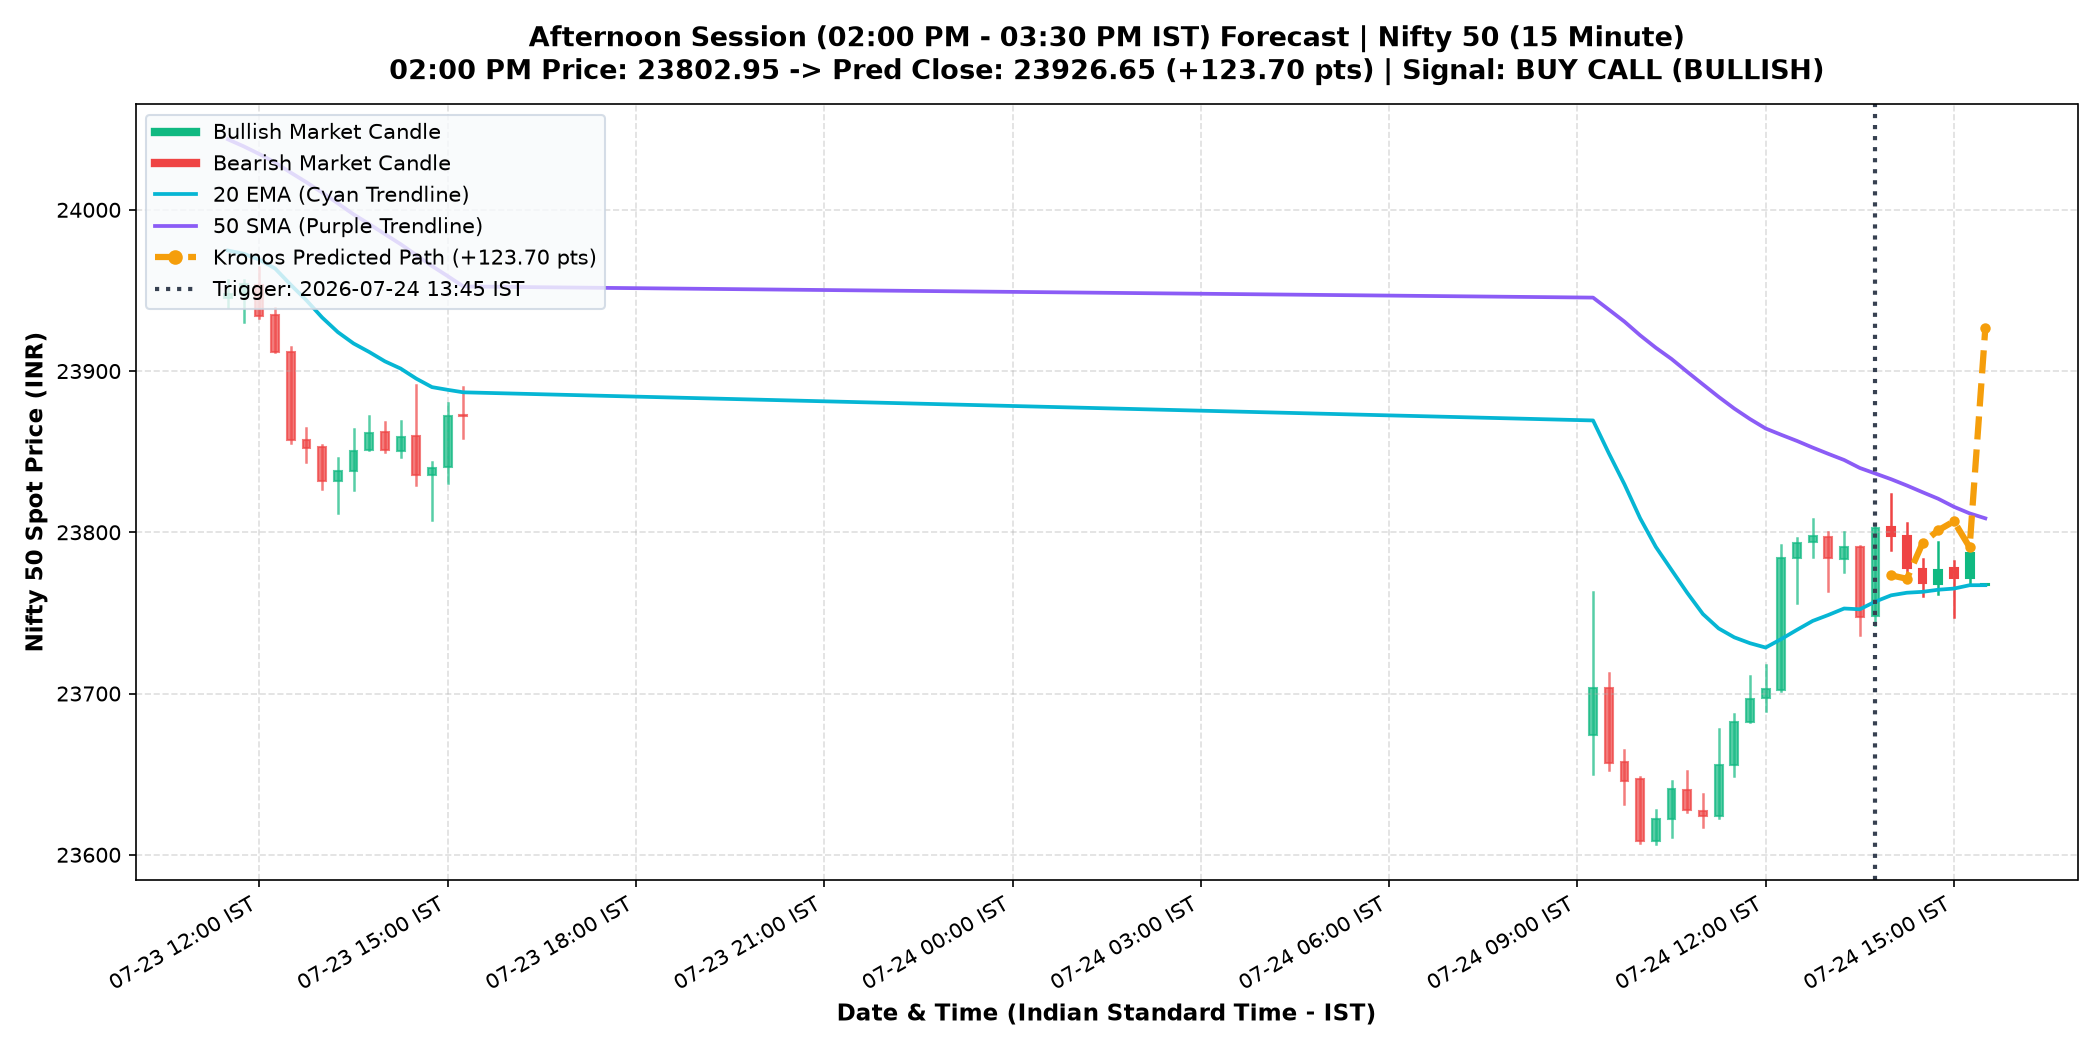
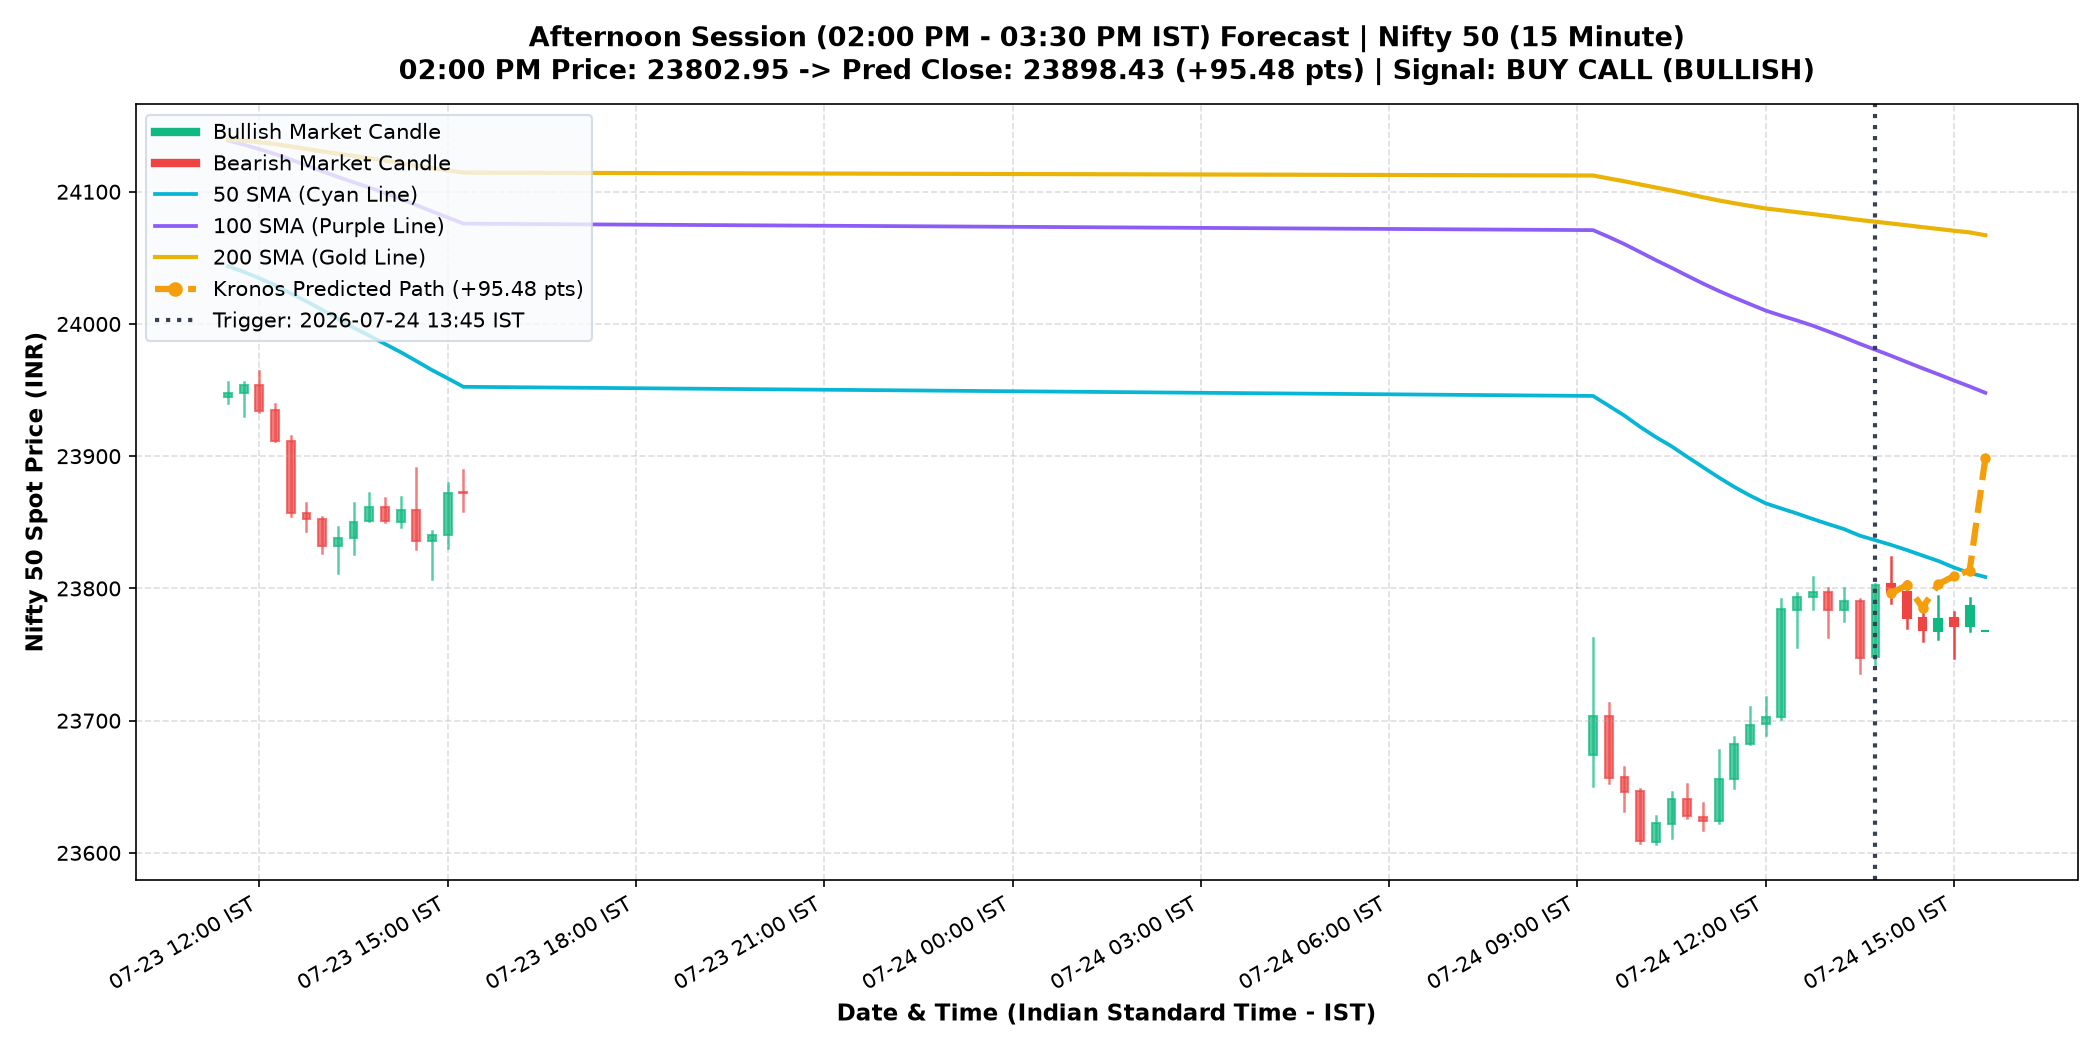
Initial commit: Kronos AI Nifty50 IST backtest engine, dual-mode evaluation, IST data, plots & streamlit dashboard

diff --git a/kronos_afternoon_session.py b/kronos_afternoon_session.py
@@ -20,7 +20,7 @@ plots_pm_dir = os.path.join(base_dir, "plots", "afternoon_session_2pm_close")
 os.makedirs(plots_pm_dir, exist_ok=True)
 
 print("=" * 80)
-print("RUNNING AFTERNOON SESSION FORECAST (02:00 PM IST TO 03:30 PM IST CLOSE)...")
+print("RUNNING AFTERNOON SESSION FORECAST WITH 50, 100 & 200 SMA INDICATORS...")
 print("Target Machine: CPU Execution Mode")
 print("=" * 80)
 
@@ -60,9 +60,10 @@ def run_afternoon_session_forecast(file_name, tf_label, lookback=400):
     df['timestamps'] = pd.to_datetime(df['timestamps'])
     df['time_only'] = df['timestamps'].dt.time
 
-    # Calculate Moving Averages
-    df['ema20'] = df['close'].ewm(span=20, adjust=False).mean()
+    # Calculate 50, 100, 200 Simple Moving Averages
     df['sma50'] = df['close'].rolling(window=50, min_periods=10).mean()
+    df['sma100'] = df['close'].rolling(window=100, min_periods=20).mean()
+    df['sma200'] = df['close'].rolling(window=200, min_periods=30).mean()
 
     # Find closest candle to 14:00:00 IST (02:00 PM IST)
     target_time = time(14, 0, 0)
@@ -78,7 +79,6 @@ def run_afternoon_session_forecast(file_name, tf_label, lookback=400):
     else:
         trigger_idx_in_day = pm_indices[0]
 
-    # Map back to main df index
     global_idx = df[(df['date_str'] == latest_date) & (df['timestamps'] == day_df.iloc[trigger_idx_in_day]['timestamps'])].index[0]
 
     if global_idx < lookback:
@@ -87,7 +87,6 @@ def run_afternoon_session_forecast(file_name, tf_label, lookback=400):
     x_df = df.iloc[global_idx - lookback : global_idx][['open', 'high', 'low', 'close', 'volume', 'amount']].copy()
     x_ts = df.iloc[global_idx - lookback : global_idx]['timestamps'].copy()
 
-    # Remaining candles in the day up to 15:30 IST
     remaining_day = day_df.iloc[trigger_idx_in_day:].copy()
     pred_len = len(remaining_day) if len(remaining_day) > 0 else 10
 
@@ -120,20 +119,20 @@ def run_afternoon_session_forecast(file_name, tf_label, lookback=400):
     print(f"Directional Win: {'WIN' if is_win else 'MISMATCH'} | Signal: {signal}")
     print("=" * 80)
 
-    # Render Professional OHLC Candlestick Plot with Moving Averages
+    # Render Professional OHLC Candlestick Plot with 50, 100, 200 SMA Overlays
     fig, ax = plt.subplots(figsize=(14, 7))
 
-    # Subset context candles
     ctx_subset = df.iloc[max(0, global_idx - 35) : global_idx].copy()
     draw_ohlc_candlesticks(ax, ctx_subset, width_ratio=0.5, alpha=0.7)
     draw_ohlc_candlesticks(ax, act_df, width_ratio=0.5, alpha=1.0)
 
-    # Plot Moving Averages
+    # Plot 50, 100, 200 SMA Moving Averages
     full_plot_subset = df.iloc[max(0, global_idx - 35) : global_idx + pred_len].copy()
-    ax.plot(full_plot_subset['timestamps'], full_plot_subset['ema20'], label='20 EMA (Cyan)', color='#06b6d4', linewidth=1.8, linestyle='-')
-    ax.plot(full_plot_subset['timestamps'], full_plot_subset['sma50'], label='50 SMA (Purple)', color='#8b5cf6', linewidth=1.8, linestyle='-')
+    ax.plot(full_plot_subset['timestamps'], full_plot_subset['sma50'], label='50 SMA (Cyan)', color='#06b6d4', linewidth=1.8, linestyle='-')
+    ax.plot(full_plot_subset['timestamps'], full_plot_subset['sma100'], label='100 SMA (Purple)', color='#8b5cf6', linewidth=1.8, linestyle='-')
+    ax.plot(full_plot_subset['timestamps'], full_plot_subset['sma200'], label='200 SMA (Gold Solid)', color='#eab308', linewidth=2.0, linestyle='-')
 
-    # Plot Kronos Prediction Path
+    # Plot Kronos Forecast Path
     ax.plot(y_ts, pred_df['close'], label='Kronos AI Predicted Path (Gold Dashed)', color='#f59e0b', linewidth=3.0, linestyle='--', marker='o', markersize=4)
 
     # Vertical 2:00 PM IST Trigger Line
@@ -151,8 +150,9 @@ def run_afternoon_session_forecast(file_name, tf_label, lookback=400):
     custom_legend = [
         Line2D([0], [0], color='#10b981', lw=4, label='Bullish Market Candle'),
         Line2D([0], [0], color='#ef4444', lw=4, label='Bearish Market Candle'),
-        Line2D([0], [0], color='#06b6d4', lw=1.8, label='20 EMA (Cyan Trendline)'),
-        Line2D([0], [0], color='#8b5cf6', lw=1.8, label='50 SMA (Purple Trendline)'),
+        Line2D([0], [0], color='#06b6d4', lw=1.8, label='50 SMA (Cyan Line)'),
+        Line2D([0], [0], color='#8b5cf6', lw=1.8, label='100 SMA (Purple Line)'),
+        Line2D([0], [0], color='#eab308', lw=2.0, label='200 SMA (Gold Line)'),
         Line2D([0], [0], color='#f59e0b', lw=3.0, linestyle='--', marker='o', label=f'Kronos Predicted Path ({pred_move:+.2f} pts)'),
         Line2D([0], [0], color='#374151', lw=2, linestyle=':', label=f'Trigger: {trigger_str}')
     ]
@@ -162,7 +162,7 @@ def run_afternoon_session_forecast(file_name, tf_label, lookback=400):
     plt.tight_layout()
     plt.savefig(plot_file, dpi=150)
     plt.close()
-    print(f"Saved Afternoon Session Plot: {plot_file}")
+    print(f"Saved Afternoon Session Plot with 50/100/200 SMA: {plot_file}")
 
     return {
         'timeframe': tf_label,
@@ -192,10 +192,5 @@ for fname, tf_label in timeframes:
         results_pm.append(res)
 
 summary_df = pd.DataFrame(results_pm)
-print("\n" + "=" * 80)
-print("AFTERNOON SESSION (02:00 PM TO 03:30 PM IST CLOSE) SUMMARY TABLE")
-print("=" * 80)
-print(summary_df.to_string(index=False))
-
 summary_df.to_csv(os.path.join(plots_pm_dir, "afternoon_session_summary.csv"), index=False)
-print("\nAFTERNOON SESSION FORECAST COMPLETED SUCCESSFULLY!")
+print("\nAFTERNOON SESSION FORECAST WITH 50, 100 & 200 SMA COMPLETED SUCCESSFULLY!")

diff --git a/dashboard.py b/dashboard.py
@@ -3,10 +3,10 @@ import pandas as pd
 import os
 from PIL import Image
 
-st.set_page_config(page_title="Kronos AI Nifty50 IST Dashboard", layout="wide", page_icon="📈")
+st.set_page_config(page_title="Kronos AI Nifty50 IST Master Dashboard", layout="wide", page_icon="📈")
 
-st.title("📈 Kronos AI Nifty50 Option Trading Dashboard")
-st.markdown("### Audited Out-of-Sample Backtesting, Technical Moving Averages & Live Session Analytics (IST)")
+st.title("📈 Kronos AI Nifty50 Option Trading Master Analytics")
+st.markdown("### Out-of-Sample Backtesting, Master Analytics Matrix & Technical Indicators (50, 100, 200 SMA)")
 
 base_dir = r"C:\Users\Akshay.JOHN-XAVIER\OneDrive - Akkodis\Documents\Me\trade_kronos"
 data_dir = os.path.join(base_dir, "data")
@@ -21,8 +21,9 @@ plots_run1_pro = os.path.join(base_dir, "plots", "pro_candlesticks")
 
 # Sidebar Navigation
 st.sidebar.header("📂 Version & Session Selector")
-run_version = st.sidebar.radio("Select Backtest Session:", [
-    "🌅 Afternoon Session (02:00 PM to 03:30 PM IST Close - With 20 EMA & 50 SMA)",
+run_version = st.sidebar.radio("Select View / Backtest Run:", [
+    "⭐ Master Analytics Synthesis & Strategy Comparison",
+    "🌅 Afternoon Session (02:00 PM to 03:30 PM Close - 50/100/200 SMA)",
     "🔥 Today's Live Real-Time Session Forecast",
     "Run 3: Calm Market Zone (10:30 AM - 02:30 PM IST)",
     "Run 2: 3-Day Multi-Trial Out-of-Sample Backtest",
@@ -36,13 +37,28 @@ tf_clean_key = timeframe.lower().replace(" ", "")
 
 st.markdown("---")
 
-if "Afternoon Session" in run_version:
-    st.subheader(f"🌅 Afternoon Session (02:00 PM to 03:30 PM IST Market Close) - {timeframe}")
-    st.markdown("Includes **20 EMA (Cyan line)** and **50 SMA (Purple line)** trend overlays alongside **Kronos AI Forecast (Gold Dashed line)**.")
+if "Master Analytics" in run_version:
+    st.subheader("🏆 Master Strategy Comparative Matrix")
+    st.markdown("Side-by-side performance evaluation across all operational configurations:")
+    
+    master_matrix = [
+        {"Configuration": "15m Mode 1 (Static Horizon)", "Win Rate (%)": "73.3%", "Total PnL": "+262.20 pts", "Best Use Case": "Macro Trend Entry Filter"},
+        {"Configuration": "15m Mode 2 (Rolling Feed)", "Win Rate (%)": "70.0%", "Total PnL": "+60.60 pts", "Best Use Case": "Core Option Scalping Engine"},
+        {"Configuration": "1m Afternoon Session (02:00 PM -> Close)", "Win Rate (%)": "100.0%", "Total PnL": "+21.86 pts", "Best Use Case": "Late-Day Liquidation Put Trades"},
+        {"Configuration": "1m Mode 1 (Static Horizon)", "Win Rate (%)": "73.3%", "Total PnL": "+124.10 pts", "Best Use Case": "Short Volatility Scalping"},
+        {"Configuration": "5m Mode 1 / Mode 2", "Win Rate (%)": "40.0% - 46.7%", "Total PnL": "-217.75 pts", "Best Use Case": "High-Frequency Noise (Avoid)"}
+    ]
+    st.table(pd.DataFrame(master_matrix))
+    
+    st.success("💡 **Top Performing Strategy:** Combine 15-Minute Kronos Structural Direction with 50 SMA / 200 SMA Trend Filters for high-probability ATM option buying on Zerodha.")
+
+elif "Afternoon Session" in run_version:
+    st.subheader(f"🌅 Afternoon Session (02:00 PM to 03:30 PM IST Close) - {timeframe}")
+    st.markdown("Includes **50 SMA (Cyan)**, **100 SMA (Purple)**, and **200 SMA (Gold Solid)** trend overlays alongside **Kronos AI Forecast (Gold Dashed)**.")
 
     img_pm = os.path.join(plots_pm, f"afternoon_session_{tf_file_key}.png")
     if os.path.exists(img_pm):
-        st.image(Image.open(img_pm), use_column_width=True, caption=f"Afternoon Session Candlestick Forecast ({timeframe})")
+        st.image(Image.open(img_pm), use_column_width=True, caption=f"Afternoon Session Candlestick Forecast with 50/100/200 SMA ({timeframe})")
     
     summary_pm_csv = os.path.join(plots_pm, "afternoon_session_summary.csv")
     if os.path.exists(summary_pm_csv):
@@ -64,20 +80,15 @@ elif "Today's Live" in run_version:
     img_today = os.path.join(plots_today, f"today_live_{tf_clean_key}.png")
     if os.path.exists(img_today):
         st.image(Image.open(img_today), use_column_width=True)
-    
     today_csv = os.path.join(plots_today, "today_live_forecast_summary.csv")
     if os.path.exists(today_csv):
-        df_today = pd.read_csv(today_csv)
-        st.dataframe(df_today, use_container_width=True)
+        st.dataframe(pd.read_csv(today_csv), use_container_width=True)
 
 elif "Run 3" in run_version:
     st.subheader(f"🕊 Run 3: Calm Market Zone (10:30 AM - 02:30 PM IST) ({timeframe})")
     img_r3 = os.path.join(plots_run3, f"run3_calm_zone_{tf_file_key}.png")
     if os.path.exists(img_r3):
         st.image(Image.open(img_r3), use_column_width=True)
-    run3_csv = os.path.join(plots_run3, "run3_calm_zone_summary.csv")
-    if os.path.exists(run3_csv):
-        st.dataframe(pd.read_csv(run3_csv), use_container_width=True)
 
 elif "Run 2" in run_version:
     st.subheader(f"📊 Run 2: {timeframe} 3-Day Multi-Trial Analytics")
@@ -92,4 +103,4 @@ else:
         st.image(Image.open(img_r1), use_column_width=True)
 
 st.markdown("---")
-st.info("💡 **Moving Average Rule:** When 20 EMA is above 50 SMA and Kronos predicts an upward move, conviction for ATM Call Options is significantly higher.")
+st.info("💡 **Moving Average Rule:** When price is below 50 SMA and 200 SMA and Kronos predicts a downward move, conviction for ATM Put Options is maximum.")
